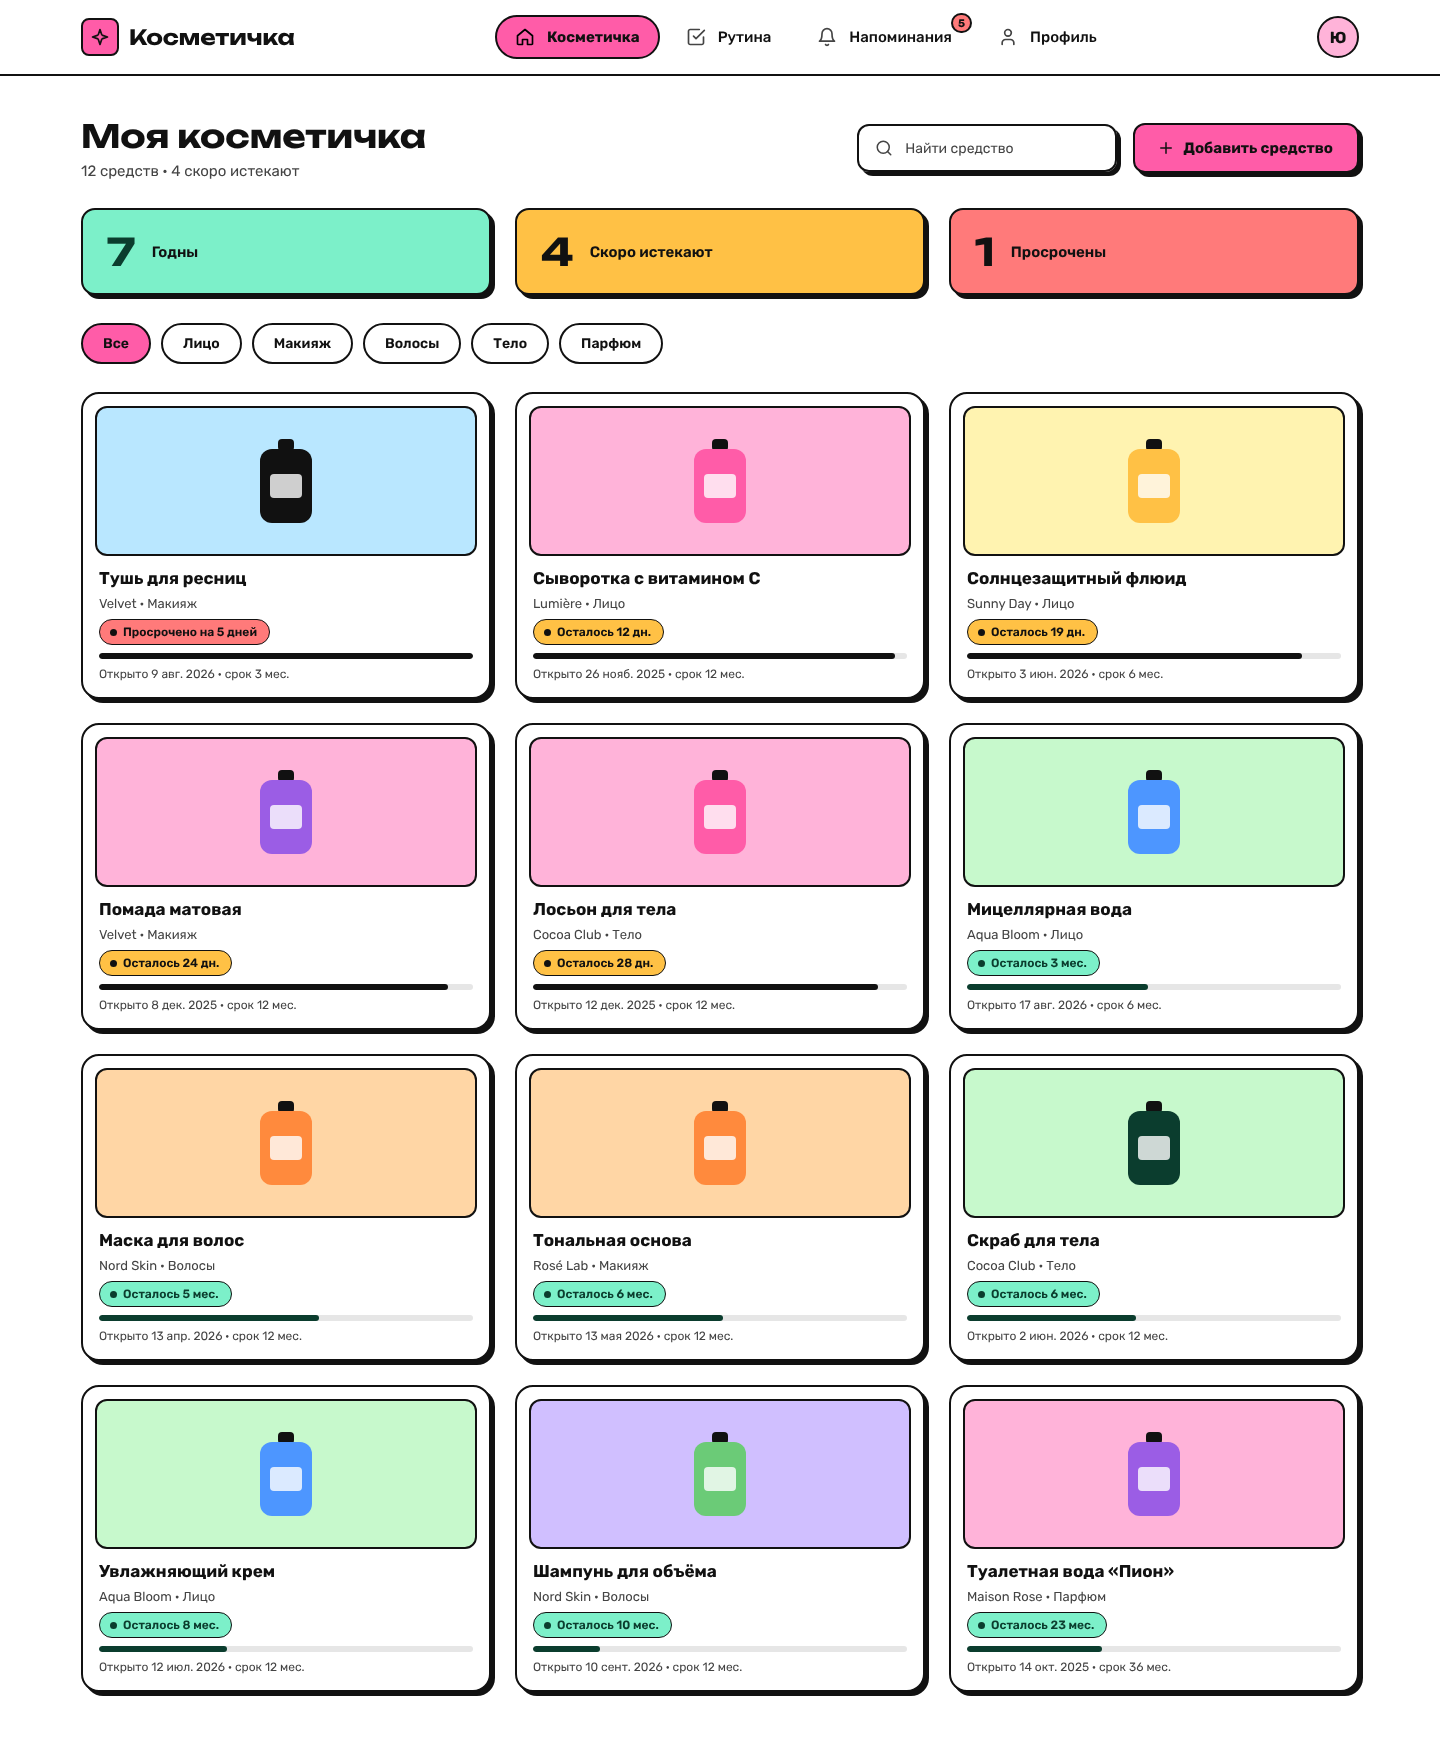
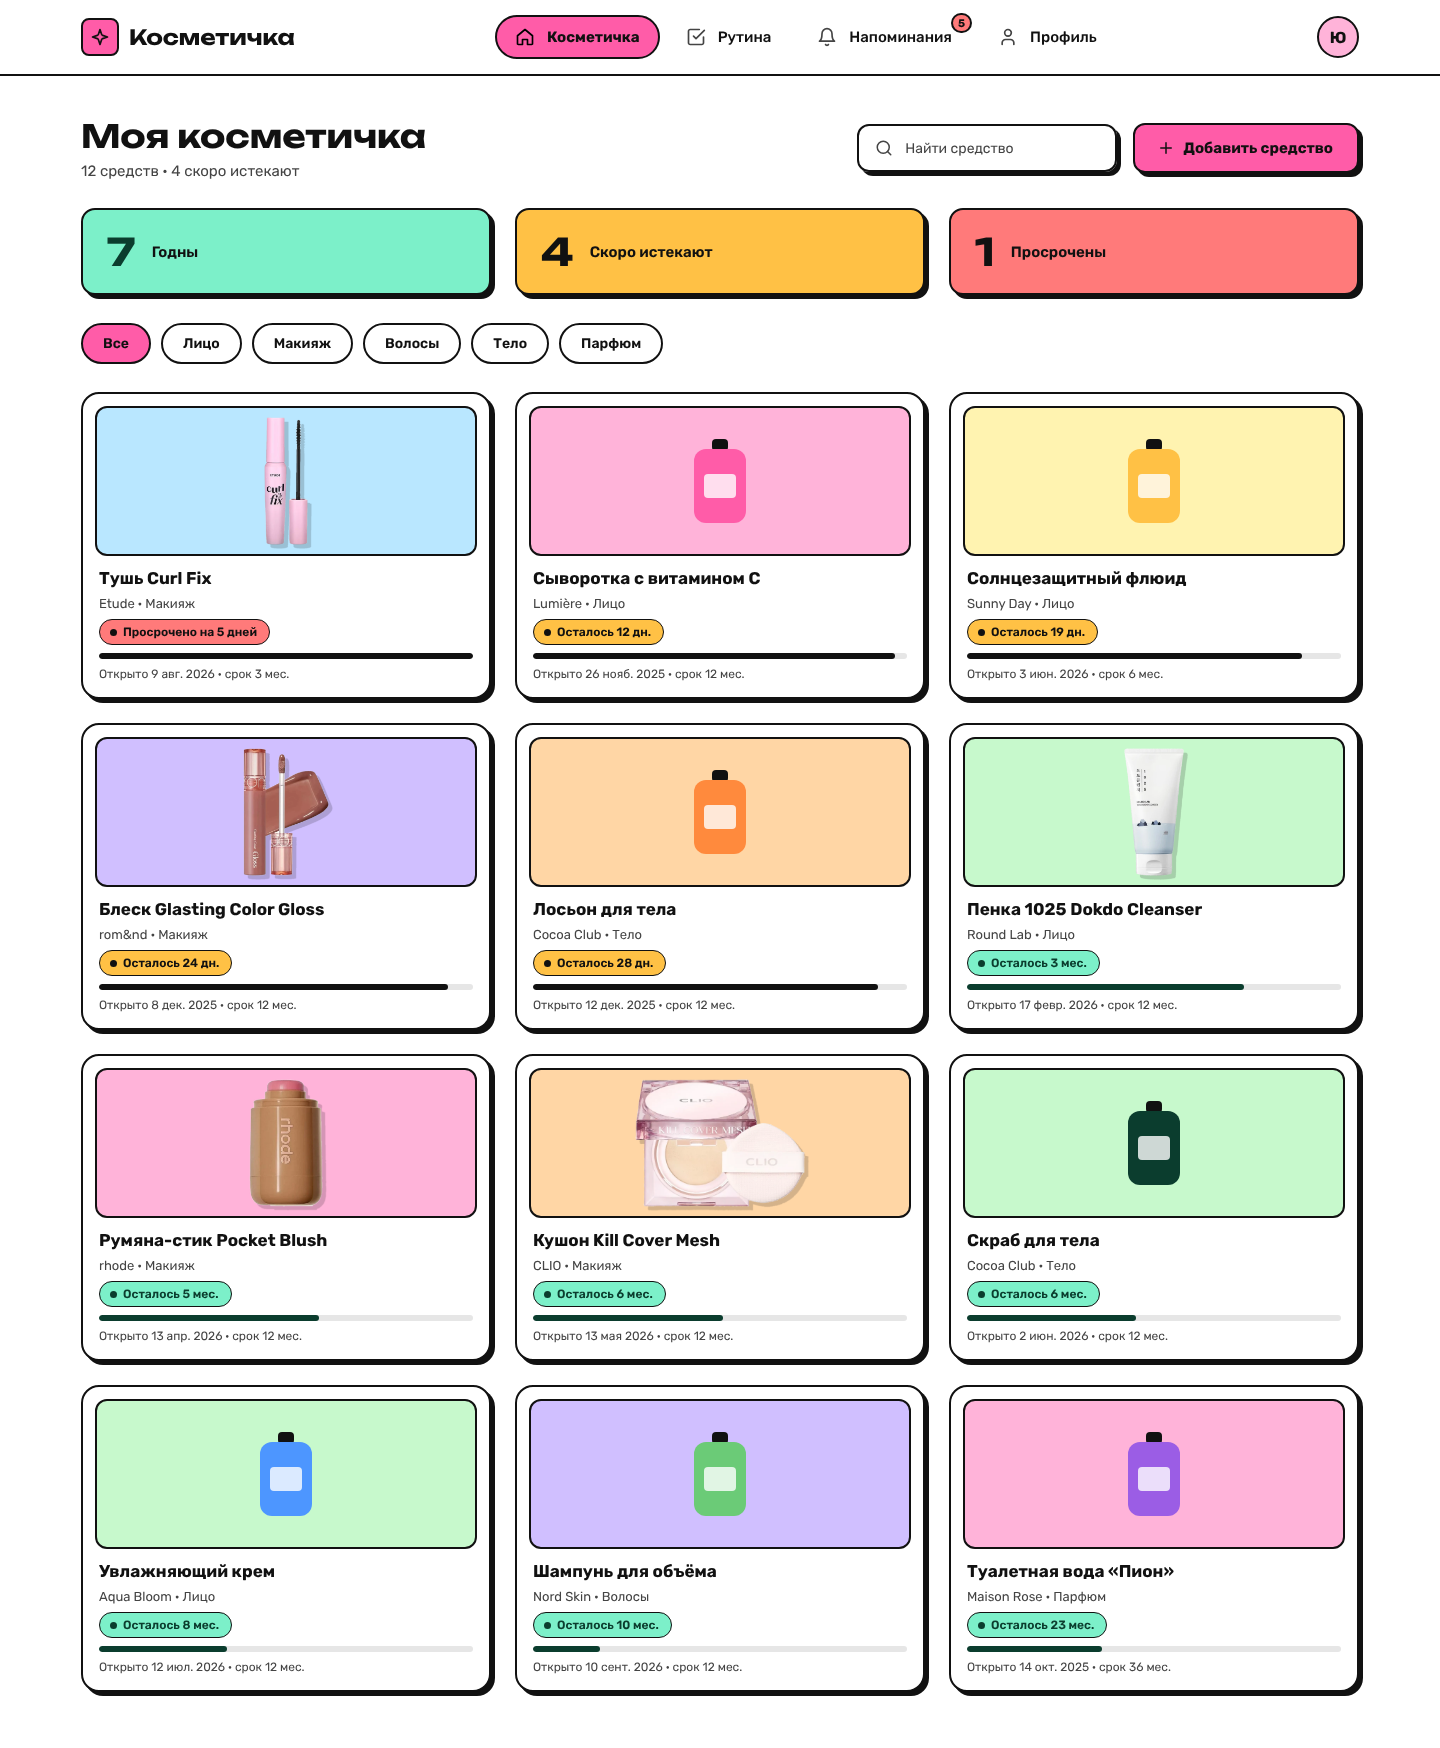
Фото продуктов в демо-данных, GitHub Pages
Пять фото на прозрачном фоне, обновлены скриншоты и README.

diff --git a/js/data.js b/js/data.js
@@ -21,20 +21,21 @@ const PALETTE = [
   сколько дней осталось до конца срока (daysLeft). Дата вскрытия
   считается от сегодняшнего дня, поэтому прототип всегда
   показывает все три статуса, когда бы его ни открыли.
+  photo — фото на прозрачном фоне (вырезка), у остальных рисуется флакон.
 */
 const DEMO_ITEMS = [
-  { name: "Сыворотка с витамином C", brand: "Lumière",    category: "Лицо",   months: 12, daysLeft: 12,  color: 0 },
-  { name: "Тушь для ресниц",         brand: "Velvet",     category: "Макияж", months: 3,  daysLeft: -5,  color: 1 },
-  { name: "Увлажняющий крем",        brand: "Aqua Bloom", category: "Лицо",   months: 12, daysLeft: 240, color: 2 },
-  { name: "Тональная основа",        brand: "Rosé Lab",   category: "Макияж", months: 12, daysLeft: 180, color: 3 },
-  { name: "Шампунь для объёма",      brand: "Nord Skin",  category: "Волосы", months: 12, daysLeft: 300, color: 4 },
-  { name: "Помада матовая",          brand: "Velvet",     category: "Макияж", months: 12, daysLeft: 24,  color: 5 },
-  { name: "Солнцезащитный флюид",    brand: "Sunny Day",  category: "Лицо",   months: 6,  daysLeft: 20,  color: 6 },
-  { name: "Мицеллярная вода",        brand: "Aqua Bloom", category: "Лицо",   months: 6,  daysLeft: 95,  color: 2 },
-  { name: "Маска для волос",         brand: "Nord Skin",  category: "Волосы", months: 12, daysLeft: 150, color: 3 },
-  { name: "Скраб для тела",          brand: "Cocoa Club", category: "Тело",   months: 12, daysLeft: 200, color: 7 },
-  { name: "Лосьон для тела",         brand: "Cocoa Club", category: "Тело",   months: 12, daysLeft: 28,  color: 0 },
-  { name: "Туалетная вода «Пион»",   brand: "Maison Rose",category: "Парфюм", months: 36, daysLeft: 700, color: 5 },
+  { name: "Тушь Curl Fix",                 brand: "Etude",      category: "Макияж", months: 3,  daysLeft: -5,  color: 1, photo: "assets/photos/etude-mascara.webp" },
+  { name: "Сыворотка с витамином C",       brand: "Lumière",    category: "Лицо",   months: 12, daysLeft: 12,  color: 0 },
+  { name: "Солнцезащитный флюид",          brand: "Sunny Day",  category: "Лицо",   months: 6,  daysLeft: 20,  color: 6 },
+  { name: "Блеск Glasting Color Gloss",    brand: "rom&nd",     category: "Макияж", months: 12, daysLeft: 24,  color: 4, photo: "assets/photos/romand-gloss.webp" },
+  { name: "Лосьон для тела",               brand: "Cocoa Club", category: "Тело",   months: 12, daysLeft: 28,  color: 3 },
+  { name: "Пенка 1025 Dokdo Cleanser",     brand: "Round Lab",  category: "Лицо",   months: 12, daysLeft: 95,  color: 2, photo: "assets/photos/roundlab-cleanser.webp" },
+  { name: "Румяна-стик Pocket Blush",      brand: "rhode",      category: "Макияж", months: 12, daysLeft: 150, color: 0, photo: "assets/photos/rhode-blush.webp" },
+  { name: "Кушон Kill Cover Mesh",         brand: "CLIO",       category: "Макияж", months: 12, daysLeft: 180, color: 3, photo: "assets/photos/clio-cushion.webp" },
+  { name: "Скраб для тела",                brand: "Cocoa Club", category: "Тело",   months: 12, daysLeft: 200, color: 7 },
+  { name: "Увлажняющий крем",              brand: "Aqua Bloom", category: "Лицо",   months: 12, daysLeft: 240, color: 2 },
+  { name: "Шампунь для объёма",            brand: "Nord Skin",  category: "Волосы", months: 12, daysLeft: 300, color: 4 },
+  { name: "Туалетная вода «Пион»",         brand: "Maison Rose",category: "Парфюм", months: 36, daysLeft: 700, color: 5 },
 ];
 
 /* Шаги рутины (для вкладки «Рутина») — по категориям */

diff --git a/js/app.js b/js/app.js
@@ -4,7 +4,7 @@
 
 /* ---------- Состояние ---------- */
 const state = {
-  items: storage.get("items", null) || createDemoItems(),
+  items: storage.get("items_v2", null) || createDemoItems(),
   settings: storage.get("settings", { threshold: 30, name: "Юлдуз" }),
   routine: storage.get("routine", { date: "", done: [] }),
   filter: { category: "Все", status: null, query: "" },
@@ -31,7 +31,7 @@ function createDemoItems() {
 
 /* Возвращает false, если браузер не смог сохранить (например, кончилось место) */
 function save() {
-  const ok = storage.set("items", state.items);
+  const ok = storage.set("items_v2", state.items);
   storage.set("settings", state.settings);
   storage.set("routine", state.routine);
   return ok;
@@ -73,11 +73,15 @@ function bottleHTML(color) {
     </div>`;
 }
 
-/* Фото, если оно есть, иначе нарисованный флакон */
+/*
+  Фото, если оно есть, иначе нарисованный флакон.
+  Демо-фото — вырезки на прозрачном фоне (лежат в assets/photos),
+  их показываем целиком; загруженные пользователем фото заполняют блок.
+*/
 function visualHTML(item) {
-  return item.photo
-    ? `<img class="photo" src="${escapeHTML(item.photo)}" alt="${escapeHTML(item.name)}" loading="lazy">`
-    : bottleHTML(item.color);
+  if (!item.photo) return bottleHTML(item.color);
+  const isCutout = item.photo.startsWith("assets/");
+  return `<img class="photo ${isCutout ? "photo--cutout" : ""}" src="${escapeHTML(item.photo)}" alt="${escapeHTML(item.name)}" loading="lazy">`;
 }
 
 function cardHTML(item, index) {

diff --git a/css/style.css b/css/style.css
@@ -306,6 +306,18 @@ a { color: inherit; text-decoration: none; }
 }
 .card:hover .photo { transform: scale(1.06); }
 
+/* Вырезка на прозрачном фоне: товар целиком, с «поп»-тенью */
+.photo--cutout {
+  height: 128px;           /* блок фото 150 px — оставляем воздух сверху и снизу */
+  width: auto;
+  max-width: 90%;
+  object-fit: contain;
+  filter: drop-shadow(4px 4px 0 rgba(17, 17, 17, .18));
+}
+.card:hover .photo--cutout { transform: rotate(-6deg) scale(1.08); }
+.preview .photo--cutout       { height: 100px; }
+.reminder__dot .photo--cutout { height: 36px; filter: none; }
+
 .photo-field { display: flex; flex-wrap: wrap; align-items: center; gap: 10px; }
 .photo-field__hint { font-size: 12px; }
 .btn--small { padding: 8px 14px; font-size: 14px; box-shadow: 3px 3px 0 0 var(--ink); }

diff --git a/README.md b/README.md
@@ -11,7 +11,7 @@
 - **Сводка.** Счётчики по статусам; клик по счётчику фильтрует список.
 - **Поиск и категории.** Лицо, макияж, волосы, тело, парфюм.
 - **Добавление, редактирование, удаление.** Модальное окно с живым превью флакона и выбором цвета.
-- **Фото средства (необязательно).** Загруженное фото сжимается через `<canvas>` до 640 px и сохраняется в браузере; без фото показывается нарисованный флакон.
+- **Фото средства (необязательно).** Загруженное фото сжимается через `<canvas>` до 640 px и сохраняется в браузере; без фото показывается нарисованный флакон. В демо-данных у части средств уже есть фото.
 - **Напоминания.** Список истекающих средств и настройка «предупреждать за 14 / 30 / 60 дней».
 - **Рутина.** Утренний и вечерний чек-лист на сегодня, сбрасывается каждый день.
 - **Профиль.** Имя, статистика, сброс демо-данных.
@@ -21,6 +21,10 @@
 | Напоминания | Телефон |
 |---|---|
 | ![Напоминания](assets/screenshots/reminders.png) | ![Мобильная версия](assets/screenshots/mobile.png) |
+
+## Демо
+
+Сайт опубликован на GitHub Pages: https://yuwnxu.github.io/cosmetichka/
 
 ## Технологии
 
@@ -38,6 +42,7 @@ js/data.js        — категории, палитра, демо-данные
 js/utils.js       — даты, склонения, хранилище
 js/app.js         — состояние, отрисовка, обработчики событий
 assets/icons/     — иконки из макета
+assets/photos/    — фото для демо-данных (вырезки на прозрачном фоне, WebP)
 ```
 
 ## Как запустить
